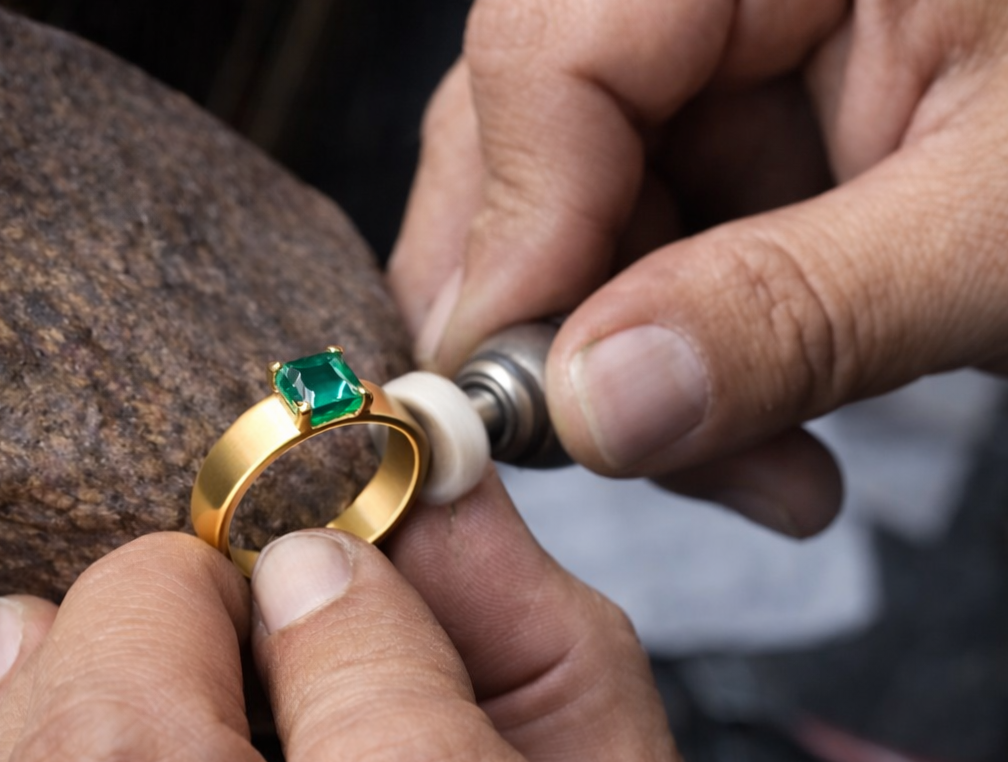
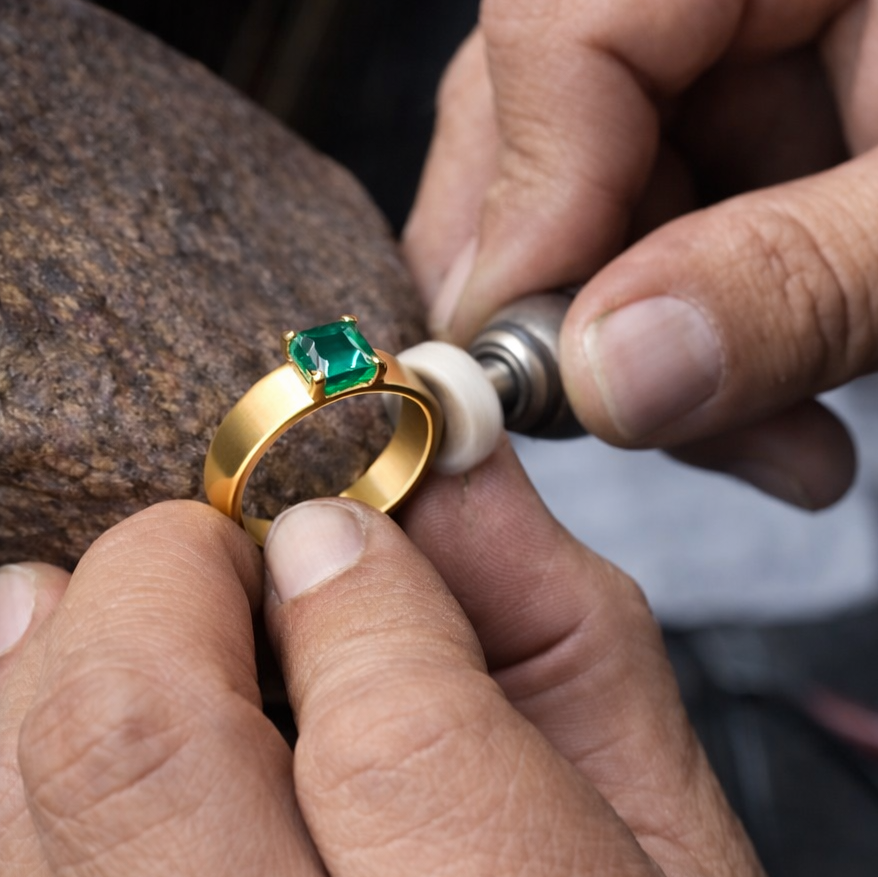
mas ittems

diff --git a/components/ServicesSection.tsx b/components/ServicesSection.tsx
@@ -7,18 +7,19 @@ import { useState } from 'react';
 
 
 const services2 = [
+    // {
+    //     title: "Colecciones Limitadas",
+    //     subtitle: "Ediciones Especiales",
+    //     description: "Lanzamos series exclusivas de solo 50 piezas cada temporada. Joyas inspiradas en arte, arquitectura y naturaleza que se convierten en objetos de colección valorados año tras año.",
+    //     badge: "Serie 2024",
+    //     feature: "Numeradas y certificadas",
+    //     subfeature: "Aumentan su valor con el tiempo"
+    // },
     {
-        title: "Colecciones Limitadas",
-        subtitle: "Ediciones Especiales",
-        description: "Lanzamos series exclusivas de solo 50 piezas cada temporada. Joyas inspiradas en arte, arquitectura y naturaleza que se convierten en objetos de colección valorados año tras año.",
-        badge: "Serie 2024",
-        feature: "Numeradas y certificadas",
-        subfeature: "Aumentan su valor con el tiempo"
-    },
-    {
-        title: "Laboratorio Gemológico",
-        subtitle: "Certificación de Piedras",
-        description: "Contamos con tecnología de espectroscopía para certificar diamantes, esmeraldas, rubíes y zafiros. Emitimos informes detallados de pureza, color, talla y quilates con validez internacional.",
+        title: "Trabajamos con piedras naturales ",
+        subtitle: "Certificadas por laboratorio gemológico ",
+        imagen: "/gemas.png",
+        description: "Creamos tus joyas con diamantes, esmeraldas, rubíes y zafiros, bajo fabricación personalizada. Emitimos certificado expedido por laboratorio, detallando pureza, color, talla y quilates de las piedras, con validez internacional.",
         badge: "Certificación GIA",
         feature: "Equipos de última generación",
         subfeature: "Resultados en 48 horas"
@@ -86,22 +87,27 @@ export function ServicesSection() {
 
             <section className="relative w-full overflow-hidden bg-gradient-to-br from-gray-50 via-white to-slate-50">
                 <div className="container mx-auto px-6 sm:px-12 lg:px-20 py-16 sm:py-24 lg:py-32">
-                    <div className="grid grid-cols-1 lg:grid-cols-2 gap-12 lg:gap-16 items-center">
+                    <div className="grid grid-cols-1 lg:grid-cols-2 gap-12 lg:gap-16 items-stretch">
 
-                        {/* Contenido de texto */}
-                        <div className="space-y-6 lg:space-y-8">
+                        {/* Contenido de texto con altura mínima fija */}
+                        <div className="flex flex-col justify-center space-y-6 lg:space-y-8">
 
+                            {/* Título y subtítulo con altura mínima fija */}
+                            <div className="min-h-[140px] sm:min-h-[160px] lg:min-h-[180px]">
+                                <h3 className="text-3xl sm:text-4xl lg:text-5xl font-light text-gray-900 leading-tight">
+                                    {currentService.title}
+                                    <span className="block font-serif italic text-gray-700 mt-2">
+                                        {currentService.subtitle}
+                                    </span>
+                                </h3>
+                            </div>
 
-                            <h3 className="text-3xl sm:text-4xl lg:text-5xl font-light text-gray-900 leading-tight">
-                                {currentService.title}
-                                <span className="block font-serif italic text-gray-700 mt-2">
-                                    {currentService.subtitle}
-                                </span>
-                            </h3>
-
-                            <p className="text-lg text-gray-600 leading-relaxed max-w-xl">
-                                {currentService.description}
-                            </p>
+                            {/* Descripción con altura mínima fija */}
+                            <div className="min-h-[100px] sm:min-h-[120px]">
+                                <p className="text-lg text-gray-600 leading-relaxed max-w-xl">
+                                    {currentService.description}
+                                </p>
+                            </div>
 
                             <div className="flex items-center gap-4">
                                 <button className="group px-8 py-3 bg-gray-900 hover:bg-gray-800 text-white font-medium rounded-md transition-all duration-300 shadow-sm hover:shadow-md">
@@ -137,8 +143,8 @@ export function ServicesSection() {
                                         key={index}
                                         onClick={() => setCurrentIndex(index)}
                                         className={`h-1.5 rounded-full transition-all duration-300 ${index === currentIndex
-                                            ? 'w-8 bg-gray-900'
-                                            : 'w-1.5 bg-gray-300 hover:bg-gray-400'
+                                                ? 'w-8 bg-gray-900'
+                                                : 'w-1.5 bg-gray-300 hover:bg-gray-400'
                                             }`}
                                         aria-label={`Ir al servicio ${index + 1}`}
                                     />
@@ -146,17 +152,14 @@ export function ServicesSection() {
                             </div>
                         </div>
 
-                        {/* Elemento visual decorativo */}
-                        <div className="relative h-64 sm:h-80 lg:h-96">
-                            <Image
+                        {/* Elemento visual que ocupa todo el alto disponible */}
+                        <div className="relative h-full min-h-[400px] lg:min-h-[500px]">
+                            <img
                                 src={currentService.imagen}
-                                alt="Caja de regalo"
-                                width={600}
-                                height={200}
-                                className="w-full h-full sm:h-full lg:h-full object-cover object-center rounded-2xl border border-gray-200 shadow-xl"
+                                alt={currentService.title}
+                                className="w-full h-full object-cover object-center rounded-2xl border border-gray-200 shadow-xl"
                             />
                         </div>
-
 
                     </div>
                 </div>
@@ -166,44 +169,39 @@ export function ServicesSection() {
                 <div className="absolute bottom-0 left-0 w-96 h-96 bg-slate-200/20 rounded-full blur-3xl -z-10"></div>
             </section>
 
-
-            <section className="relative w-full overflow-hidden bg-gradient-to-br from-gray-50 via-white to-slate-50">
+<section className="relative w-full overflow-hidden bg-gradient-to-br from-gray-50 via-white to-slate-50">
                 <div className="container mx-auto px-6 sm:px-12 lg:px-20 py-16 sm:py-24 lg:py-32">
+                    <div className="grid grid-cols-1 lg:grid-cols-2 gap-12 lg:gap-16 items-stretch">
 
-                    <div className="grid grid-cols-1 lg:grid-cols-2 gap-12 lg:gap-16 items-center">
-                        <div className="relative h-64 sm:h-80 lg:h-96">
-
-                            <div className="absolute inset-4 bg-white/90 backdrop-blur-sm rounded-2xl border border-gray-200 shadow-xl flex items-center justify-center transition-all duration-500">
-                                {/* <Image
-                                        src="/joyeria.jpeg"
-                                        alt="Caja de regalo"
-                                        width={600} // El ancho base
-                                        height={400} // El alto proporcional
-                                        className="w-full h-64 sm:h-80 lg:h-96 object-cover rounded-2xl border border-gray-200 shadow-xl"
-                                    /> */}
-
-                            </div>
+                         <div className="relative h-full min-h-[400px] lg:min-h-[500px]">
+                            <img
+                                src={currentService2.imagen}
+                                alt={currentService2.title}
+                                className="w-full h-full object-cover object-center rounded-2xl border border-gray-200 shadow-xl"
+                            />
                         </div>
 
+                        {/* Contenido de texto con altura mínima fija */}
+                        <div className="flex flex-col justify-center space-y-6 lg:space-y-8">
 
+                            
 
+                            {/* Título y subtítulo con altura mínima fija */}
+                            <div className="min-h-[140px] sm:min-h-[160px] lg:min-h-[180px]">
+                                <h3 className="text-3xl sm:text-4xl lg:text-5xl font-light text-gray-900 leading-tight">
+                                    {currentService2.title}
+                                    <span className="block font-serif italic text-gray-700 mt-2">
+                                        {currentService2.subtitle}
+                                    </span>
+                                </h3>
+                            </div>
 
-
-
-
-                        {/* Contenido de texto */}
-                        <div className="space-y-6 lg:space-y-8">
-
-                            <h3 className="text-3xl sm:text-4xl lg:text-5xl font-light text-gray-900 leading-tight">
-                                {currentService2.title}
-                                <span className="block font-serif italic text-gray-700 mt-2">
-                                    {currentService2.subtitle}
-                                </span>
-                            </h3>
-
-                            <p className="text-lg text-gray-600 leading-relaxed max-w-xl">
-                                {currentService2.description}
-                            </p>
+                            {/* Descripción con altura mínima fija */}
+                            <div className="min-h-[100px] sm:min-h-[120px]">
+                                <p className="text-lg text-gray-600 leading-relaxed max-w-xl">
+                                    {currentService2.description}
+                                </p>
+                            </div>
 
                             <div className="flex items-center gap-4">
                                 <button className="group px-8 py-3 bg-gray-900 hover:bg-gray-800 text-white font-medium rounded-md transition-all duration-300 shadow-sm hover:shadow-md">
@@ -237,10 +235,10 @@ export function ServicesSection() {
                                 {services2.map((_, index) => (
                                     <button
                                         key={index}
-                                        onClick={() => setCurrentIndex2(index)}
+                                        onClick={() => setCurrentIndex(index)}
                                         className={`h-1.5 rounded-full transition-all duration-300 ${index === currentIndex
-                                            ? 'w-8 bg-gray-900'
-                                            : 'w-1.5 bg-gray-300 hover:bg-gray-400'
+                                                ? 'w-8 bg-gray-900'
+                                                : 'w-1.5 bg-gray-300 hover:bg-gray-400'
                                             }`}
                                         aria-label={`Ir al servicio ${index + 1}`}
                                     />
@@ -248,7 +246,8 @@ export function ServicesSection() {
                             </div>
                         </div>
 
-
+                        {/* Elemento visual que ocupa todo el alto disponible */}
+                       
 
                     </div>
                 </div>
